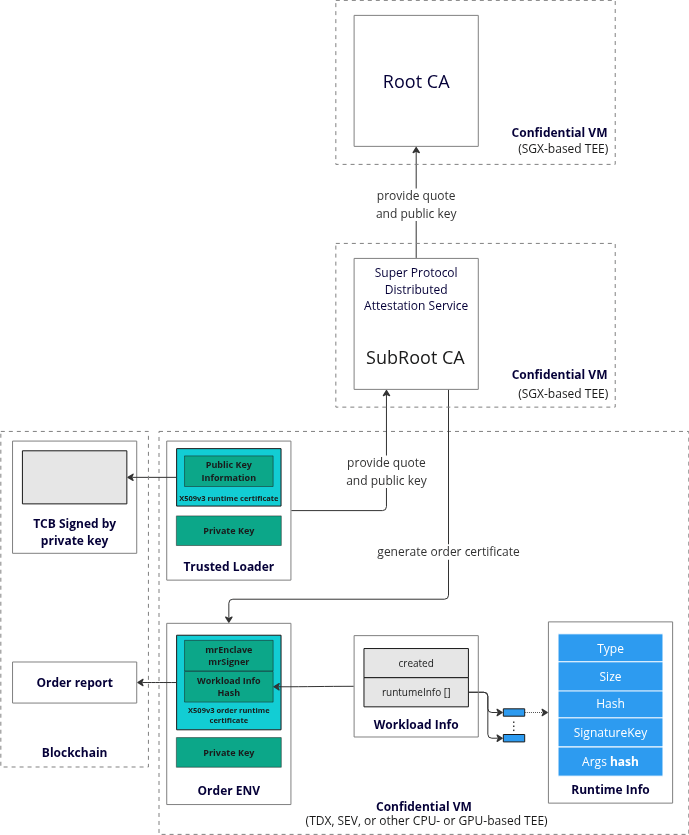
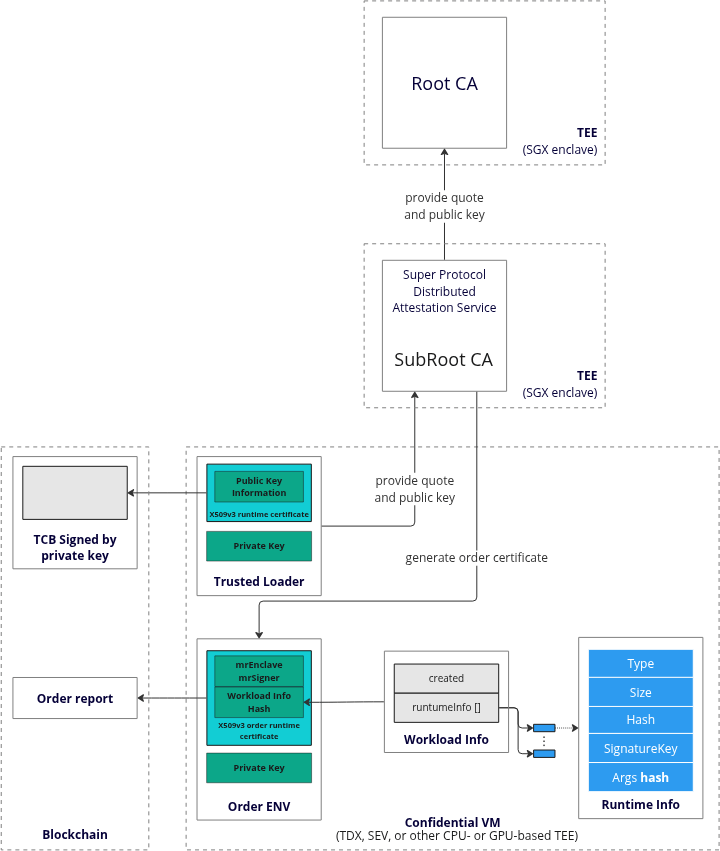
Fundamentals
Certification System hotfix

Changed region(s): [[0.0, 0.0, 1.0, 0.9653], [0.0, 0.9341, 1.0, 1.0], [0.5486, 0.0934, 0.6705, 0.1246]]

diff --git a/docs/fundamentals/certification.md b/docs/fundamentals/certification.md
@@ -5,13 +5,13 @@ slug: "/certification"
 sidebar_position: 6
 ---
 
-Super Protocol uses the certification system for signing data, verifying signatures, and ensuring applications operate in a correct confidential computing environment. The system publishes verified data in the blockchain on behalf of confidential containers, allowing anyone to validate application integrity and ensure confidentiality.
+Super Protocol uses a certification system for signing data, verifying signatures, and ensuring applications operate within a trusted confidential computing environment. Verified data is published on the blockchain on behalf of confidential containers, enabling anyone to validate application integrity and maintain confidentiality. The end user only interacts with issued certificates and verifies signatures, while the complexities of Remote Attestation are seamlessly managed in the background.
 
 All the system components are open-source, which guarantees transparency and verifiability.
 
 ## Architecture
 
-The backbone of the system is a hierarchical structure of Certification Authorities. Each Certification Authority works in a Confidential Virtual Machine (VM) executed inside a Trusted Execution Environment (TEE)—Intel SGX enclave.
+The backbone of the system is a hierarchical structure of Certification Authorities. Each Certification Authority operates inside a Trusted Execution Environment (TEE)—Intel SGX enclave.
 
 <img src={require('./images/certification-system-architecture.png').default} width="auto" height="auto"/>
 <br/>
@@ -19,15 +19,13 @@ The backbone of the system is a hierarchical structure of Certification Authorit
 
 The Root Certification Authority (*Root CA*) is located at the highest hierarchical level. At the start, Root CA generates a self-signed certificate, embedding an SGX attestation quote.
 
-Distributed SubRoot Certification Authorities (*SubRoot CAs*) operate under the Root CA at the next hierarchical level. They provide their quotes and public keys for future certificates to the Root CA and request certificates.
+Distributed SubRoot Certification Authorities (*SubRoot CAs*) operate at the next hierarchical level. They provide their quotes and public keys to the Root CA and request certificates.
 
-Root CA receives these incoming requests, verifies them, and issues and signs certificates for SubRoot CAs. The SubRoot CAs, in turn, issue and sign certificates for [orders](/fundamentals/orders). Confidential VMs that execute orders may be deployed inside TDX, SEV, or other CPU- or GPU-based TEE.
+Root CA receives these incoming requests, verifies them, and issues and signs certificates for SubRoot CAs. The SubRoot CAs, in turn, issue and sign certificates for [orders](/fundamentals/orders).
 
 ## Order certificates
 
-The certification system facilitates attestation verification for orders, as only the order certificate is required. The certificate chain up to the Root CA is verified automatically.
-
-The issuing of order certificates involves [Trusted Loader](/whitepaper/tee-provider/#trusted-loader-mechanism)—a mechanism developed to load and run applications within a TEE. Trusted Loader operates inside a Confidential VM that executes the order.
+The issuing of order certificates involves [Trusted Loader](/whitepaper/tee-provider/#trusted-loader-mechanism)—a mechanism developed to load and run applications within a TEE. Trusted Loader operates inside a Confidential VM that executes the order. This Condidential VM is deployed inside TDX, SEV, or other CPU- or GPU-based TEE.
 
 The process of getting an order certificate is the following:
 
